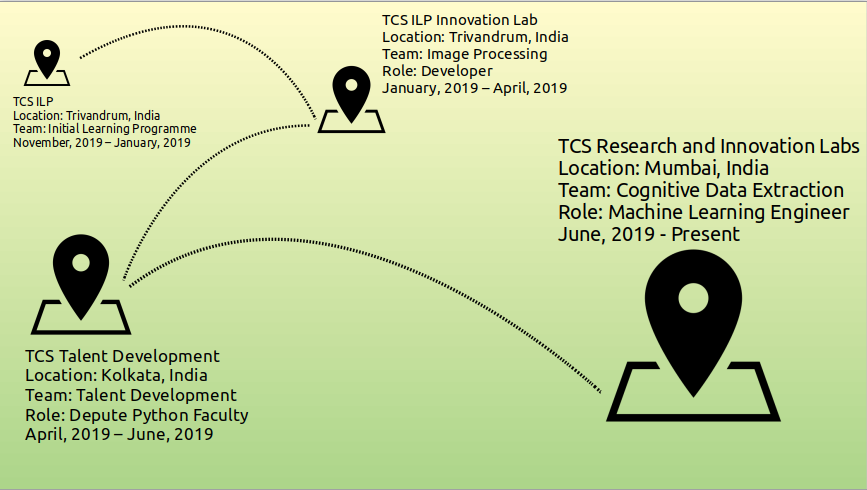
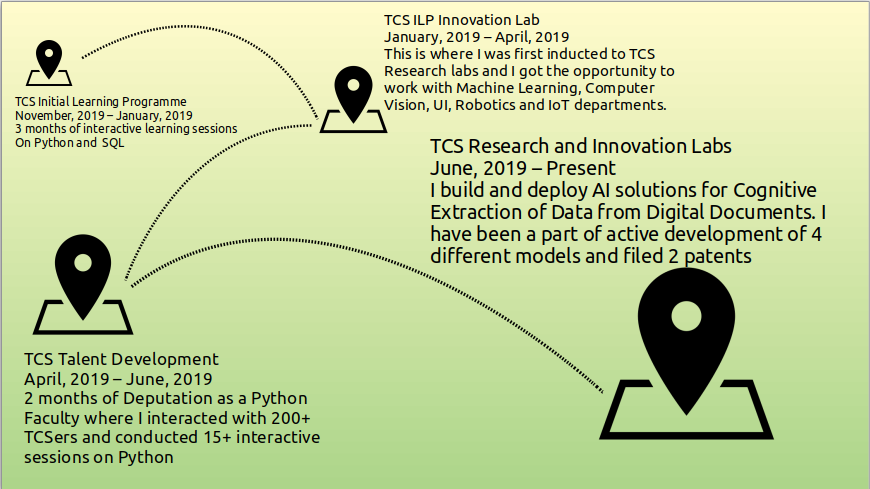
modified Experience

diff --git a/index.html b/index.html
@@ -384,7 +384,7 @@
         <div class="uk-modal-header">
             <h2 class="uk-modal-title">TCS</h2>
         </div>
-        <p><img src="/journey.png"></img></p>
+        <p><img src="/journey2.png"></img></p>
     </div>
 </div>
 
